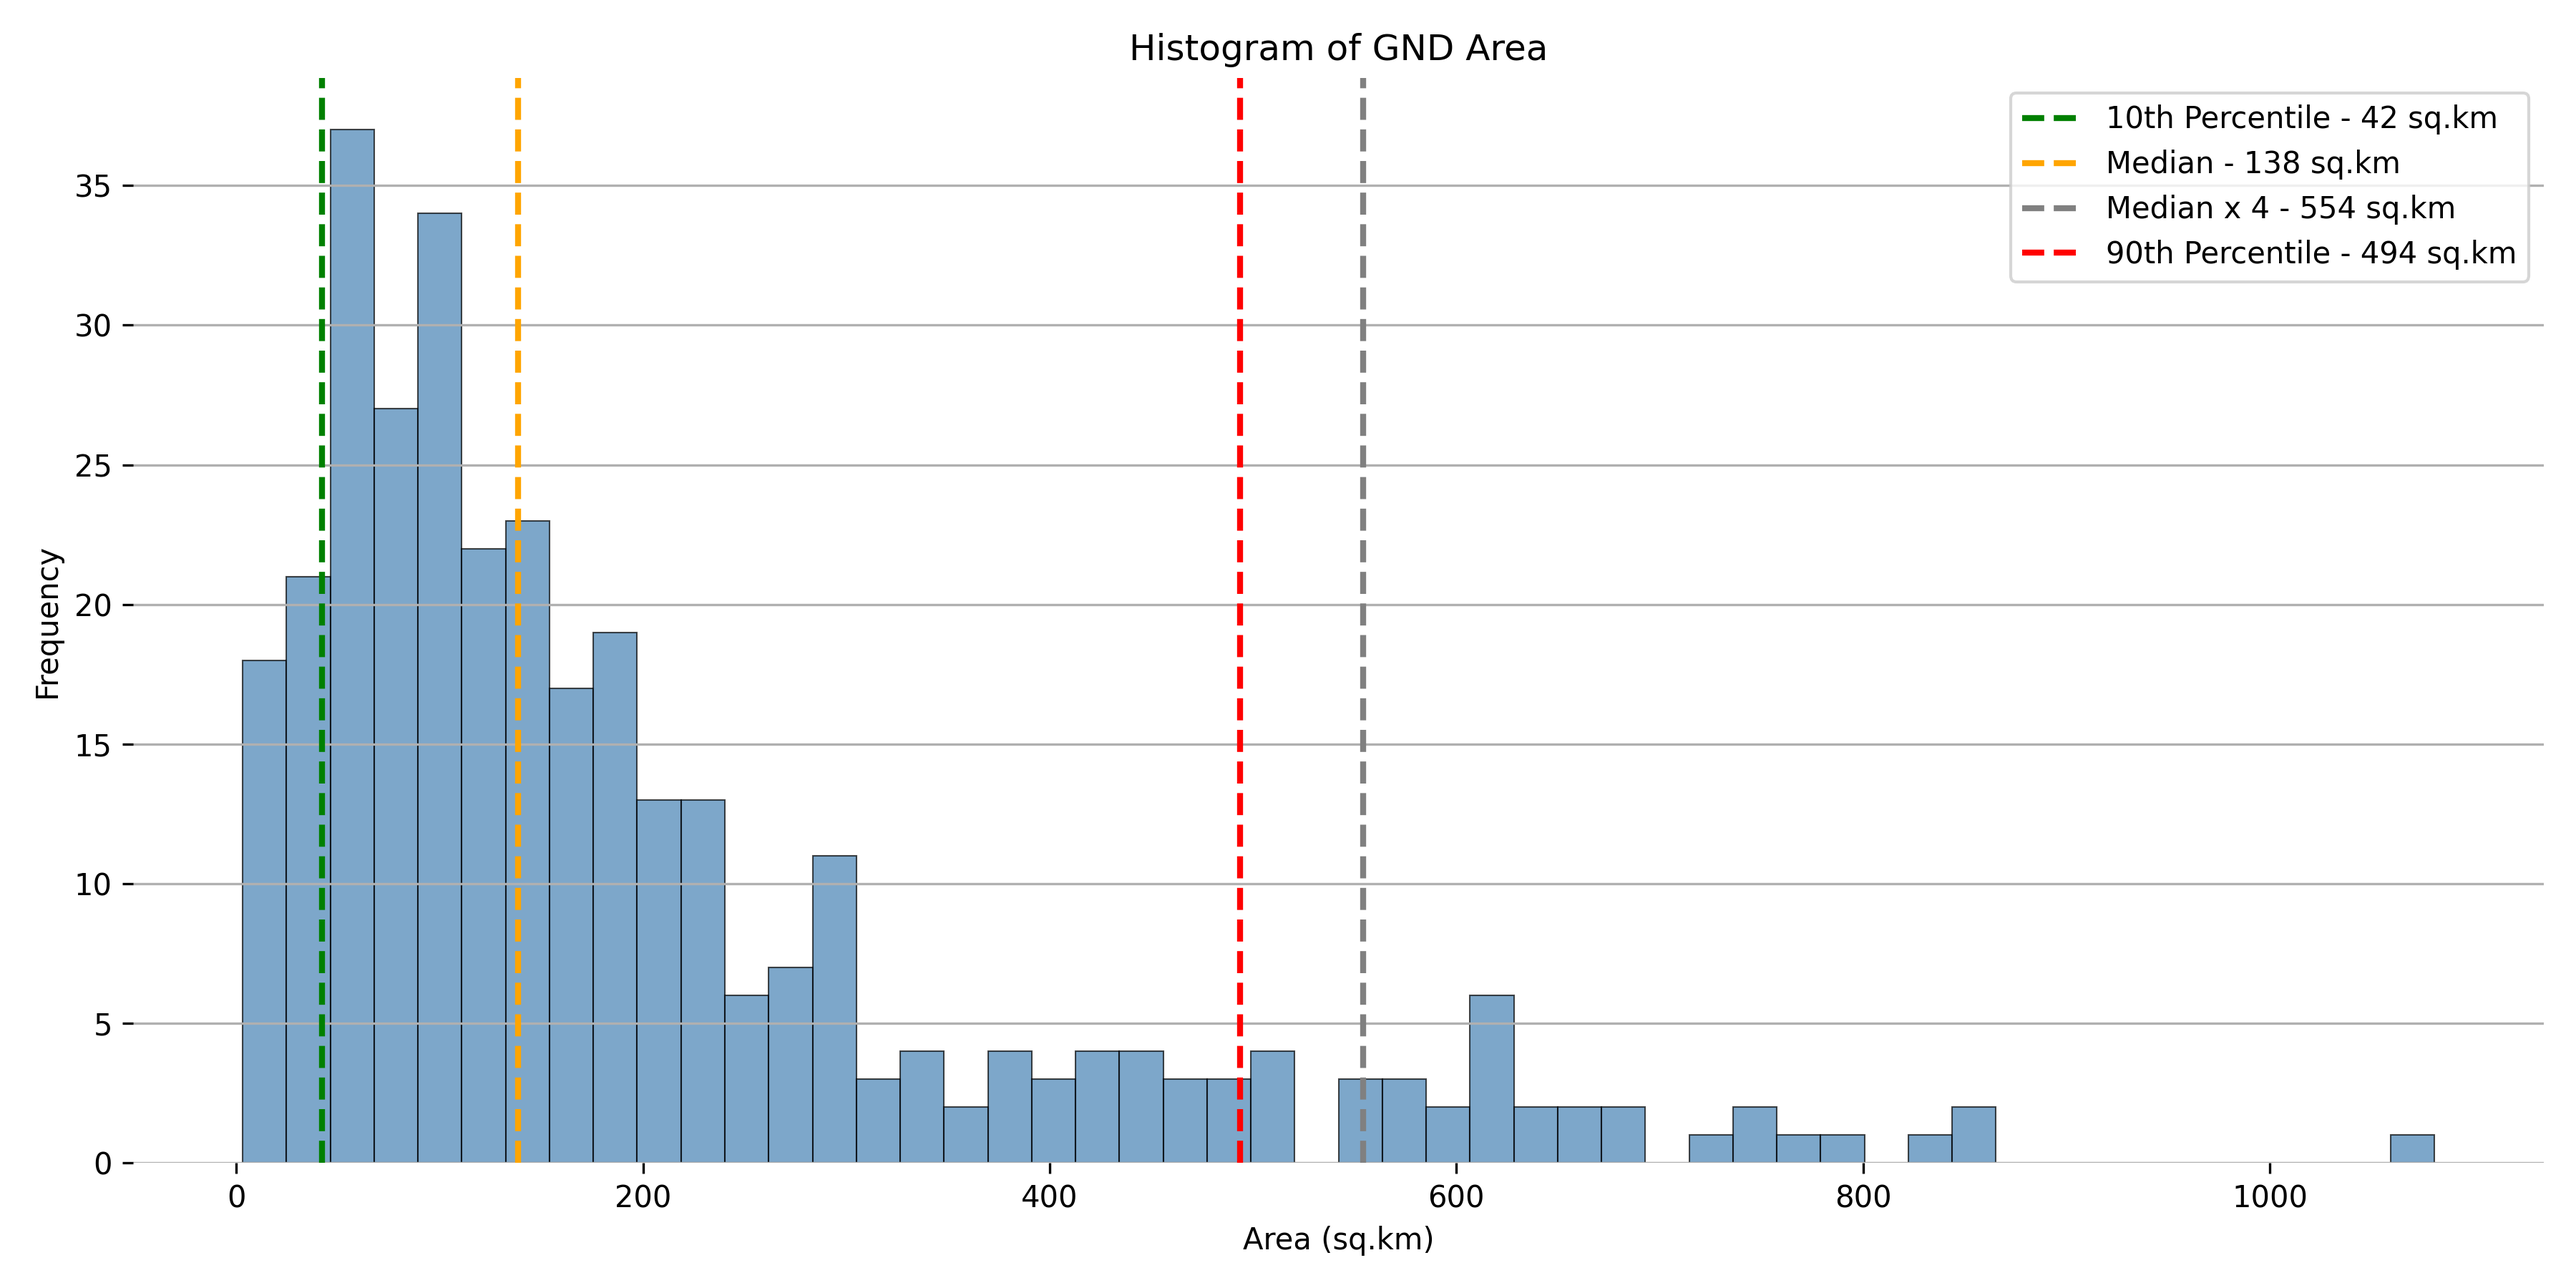
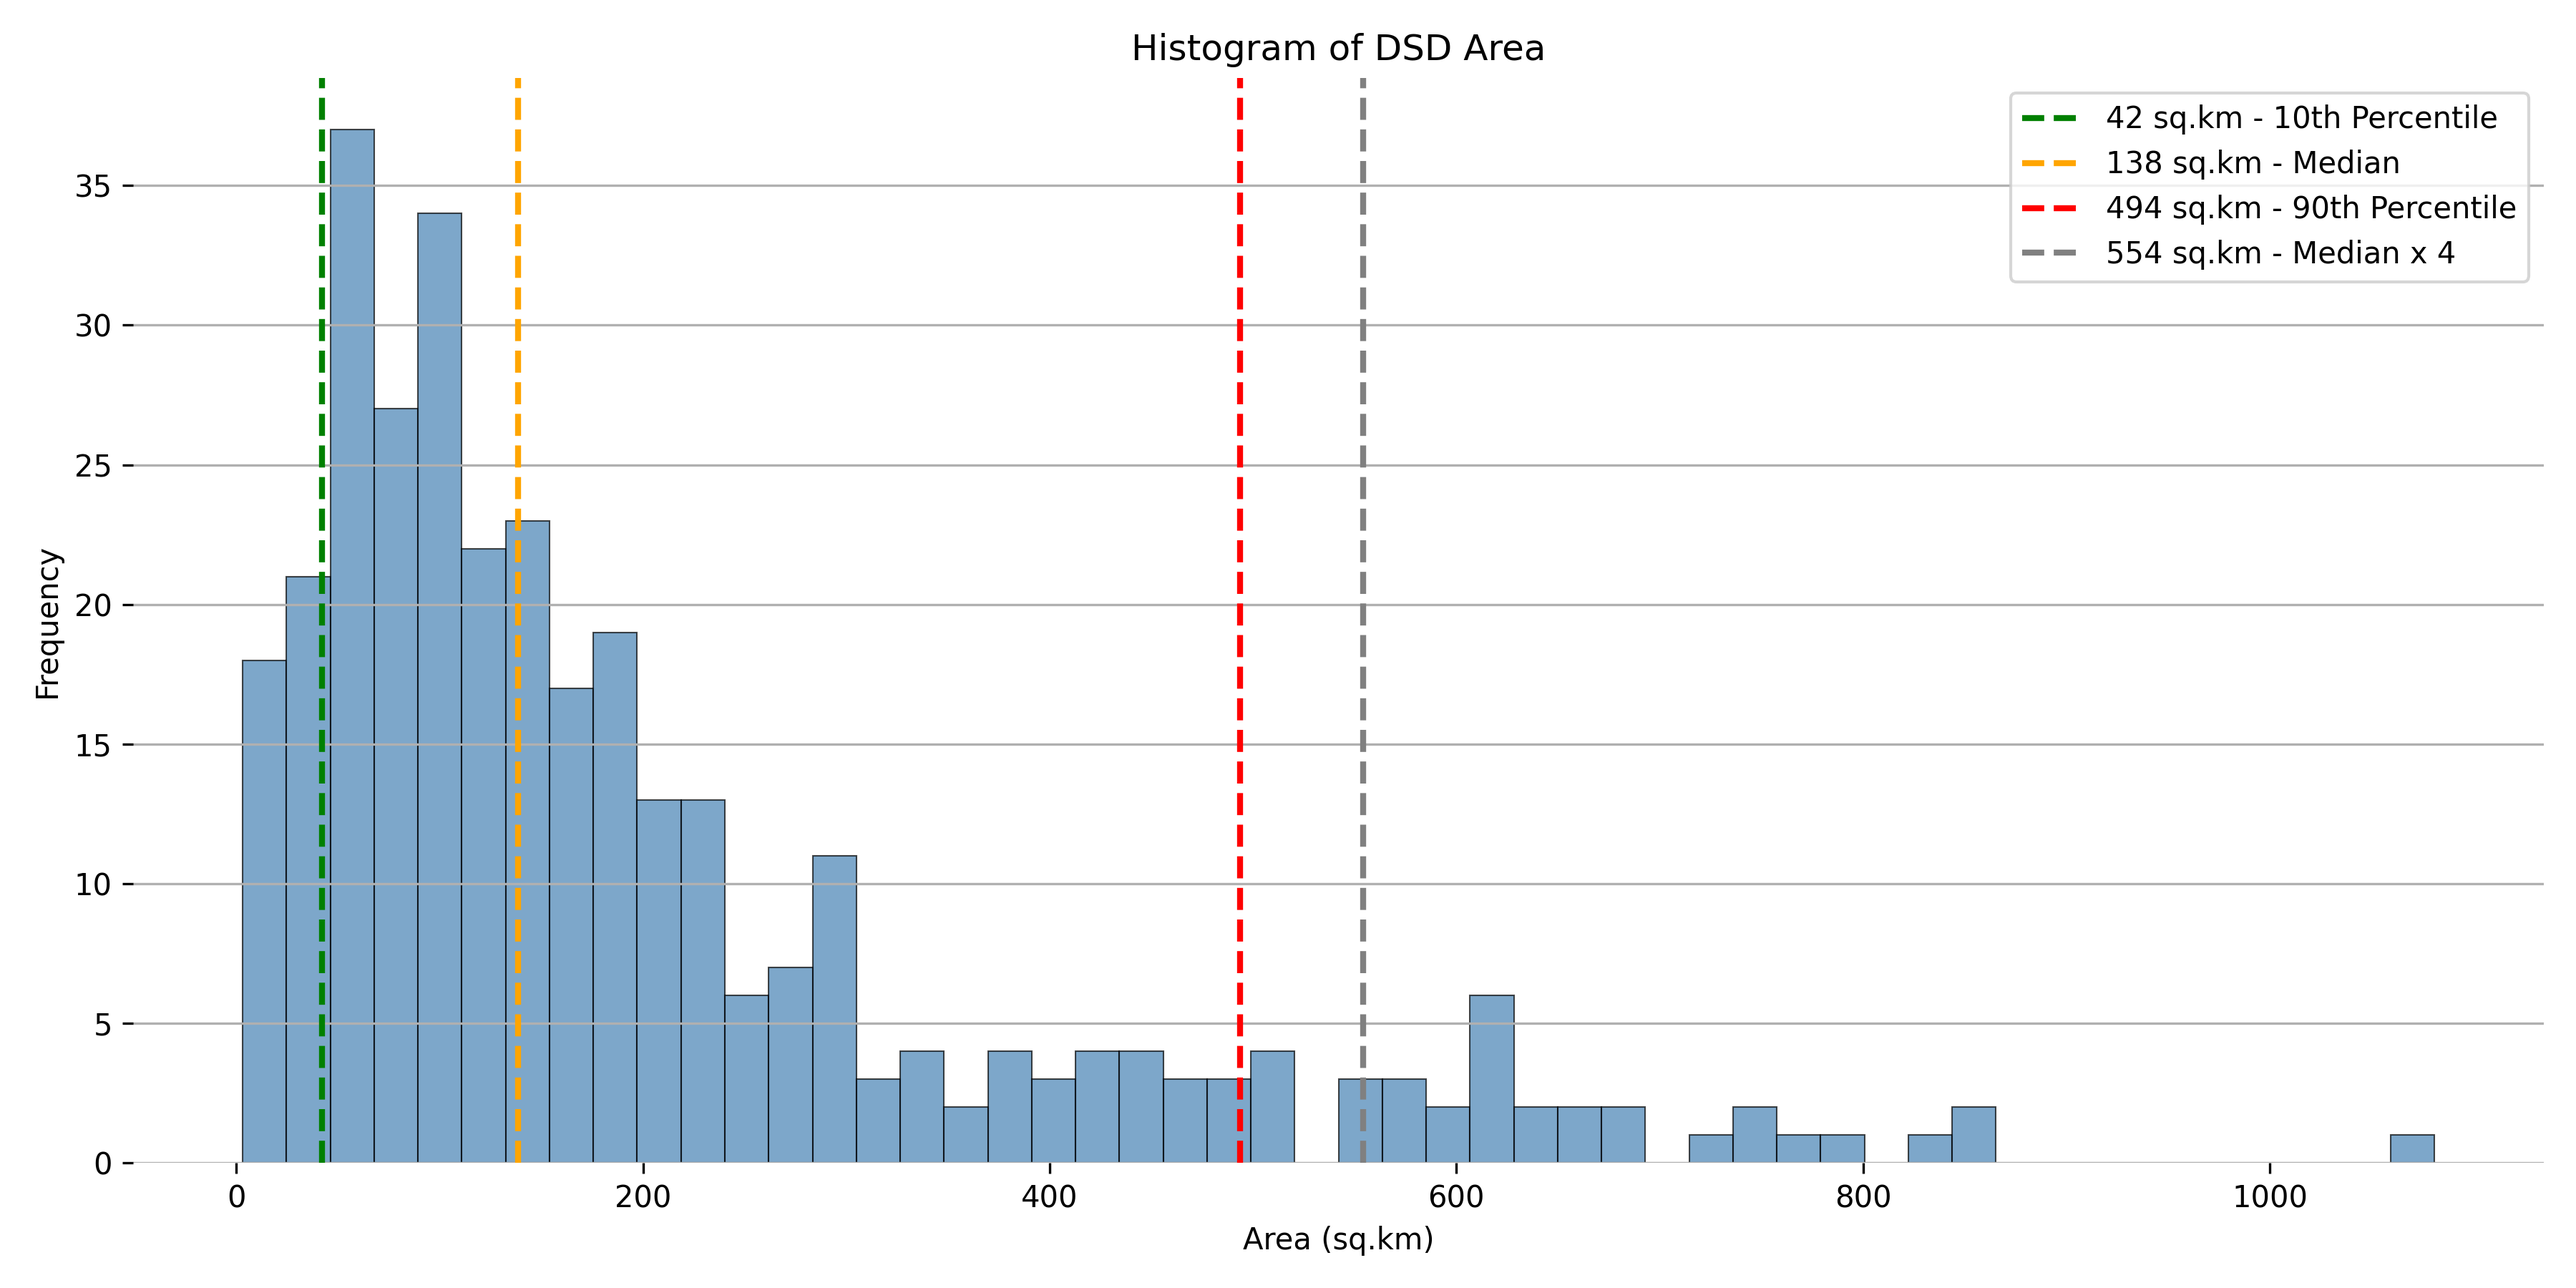
Update histogram and scatter plot titles, enhance legend details, and improve axis labels for clarity

Changed region(s): [[0.8089, 0.0622, 0.9644, 0.2178], [0.4356, 0.0311, 0.5911, 0.0622]]

diff --git a/example_analyses/gnds/__main__.py b/example_analyses/gnds/__main__.py
@@ -2,6 +2,7 @@ import os
 
 import matplotlib.pyplot as plt
 import numpy as np
+from matplotlib.patches import Patch
 from scipy import stats
 from utils import Log
 
@@ -28,23 +29,26 @@ def draw_histogram(title, values, unit):
     p10 = stats.scoreatpercentile(values, 10)
     p90 = stats.scoreatpercentile(values, 90)
     max_reasonable = median * REASONABLE_FACTOR
-    for [value, label, color] in [
-        [p10, "10th Percentile", "green"],
-        [median, "Median", "orange"],
-        [max_reasonable, f"Median x {REASONABLE_FACTOR}", "gray"],
-        [p90, "90th Percentile", "red"],
-    ]:
+    for [value, label, color] in sorted(
+        [
+            [p10, "10th Percentile", "green"],
+            [median, "Median", "orange"],
+            [p90, "90th Percentile", "red"],
+            [max_reasonable, f"Median x {REASONABLE_FACTOR}", "gray"],
+        ],
+        key=lambda x: x[0],
+    ):
         plt.axvline(
             value,
             color=color,
             linestyle="--",
             linewidth=2,
-            label=f"{label} - {value:,.0f} {unit}",
+            label=f"{value:,.0f} {unit} - {label}",
         )
 
-    plt.xlabel(f"{title} ({unit})")
+    plt.xlabel(f"{title.title()} ({unit})")
     plt.ylabel("Frequency")
-    plt.title(f"Histogram of GND {title}")
+    plt.title(f"Histogram of {ENT_TYPE.name.upper()} {title.title()}")
     plt.legend()
     plt.grid(True, axis="y")
 
@@ -78,9 +82,9 @@ def draw_xy_plot(ents):
         unreasonable_population = population > max_reasonable_population
         unreasonable_area = area > max_reasonable_area
         if unreasonable_population and unreasonable_area:
-            color = "red"
-        elif unreasonable_population:
             color = "orange"
+        elif unreasonable_population:
+            color = "red"
         elif unreasonable_area:
             color = "blue"
         else:
@@ -99,32 +103,30 @@ def draw_xy_plot(ents):
         )
 
     plt.xlabel("Area (sq.km)")
-    plt.ylabel("Population")
-    plt.title("Population vs Area for GNDs")
+    plt.ylabel("Population (persons)")
+    plt.title(f"Population vs Area for {ENT_TYPE.name.upper()}")
     plt.grid(True, alpha=0.3)
 
-    # Add legend
-    from matplotlib.patches import Patch
+    plt.axhline(
+        y=max_reasonable_population,
+        color="red",
+        linestyle=":",
+        linewidth=2,
+        alpha=0.5,
+        label=f"{max_reasonable_population:,.0f} persons"
+        + f" - Median Population x {REASONABLE_FACTOR}",
+    )
+    plt.axvline(
+        x=max_reasonable_area,
+        color="blue",
+        linestyle=":",
+        linewidth=2,
+        alpha=0.5,
+        label=f"{max_reasonable_area:,.0f} sq.km"
+        + f" - Median Area x {REASONABLE_FACTOR}",
+    )
 
-    legend_elements = [
-        Patch(
-            facecolor="red",
-            alpha=0.6,
-            label=f"Population > {REASONABLE_FACTOR} x Median & Area > {REASONABLE_FACTOR} x Median",
-        ),
-        Patch(
-            facecolor="orange",
-            alpha=0.6,
-            label=f"Population > {REASONABLE_FACTOR} x Median",
-        ),
-        Patch(
-            facecolor="blue",
-            alpha=0.6,
-            label=f"Area > {REASONABLE_FACTOR} x Median",
-        ),
-        Patch(facecolor="gray", alpha=0.6, label="Normal"),
-    ]
-    plt.legend(handles=legend_elements, loc="upper left")
+    plt.legend()
 
     # Remove box/spines
     ax = plt.gca()
@@ -154,8 +156,8 @@ def main():
     populations = [ent.population for ent in ents]
     areas = [ent.area for ent in ents]
 
-    draw_histogram("Population", populations, "persons")
-    draw_histogram("Area", areas, "sq.km")
+    draw_histogram("population", populations, "persons")
+    draw_histogram("area", areas, "sq.km")
     draw_xy_plot(ents)
 
 
